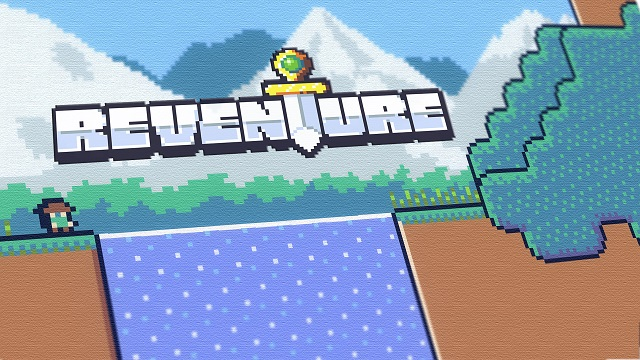
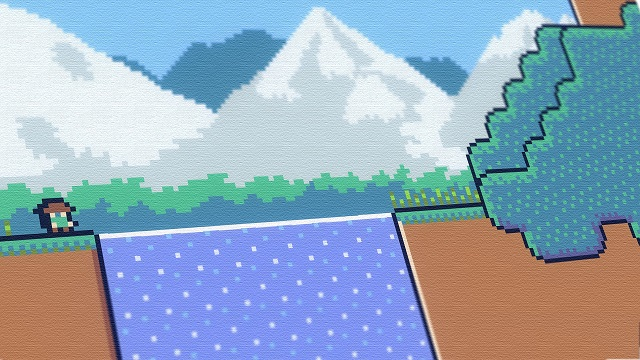
Changed product images and added vignette

Changed region(s): [[0.0625, 0.1222, 0.7188, 0.4583]]

diff --git a/index.html b/index.html
@@ -15,11 +15,11 @@ has_carousel: false
         {% for product_hash in products %}
             {% assign product = product_hash[1] %}
             <a href="/{{ product.code }}/" style="color: white;">
-                <div class="hero is-medium"
+                <div class="hero vignette-shadow-box is-medium"
                     style="background: url('/img/product/{{ product.code }}-hero.jpg') no-repeat center center; background-size: cover; background-position: center;">
                     <div class="hero-align-bottom">
-                        <h1 class="title is-3 has-text-white">
-                            {{ product.title }}
+                        <h1 class="title is-1 has-text-white">
+                            {{ product.name }}
                         </h1>
                         <h2 class="subtitle is-5 has-text-white">
                             {{ product.subtitle }}
@@ -38,7 +38,7 @@ has_carousel: false
         @media screen and (min-width: 769px) {
             .hero-align-bottom {
                 padding-bottom: 2rem;
-                padding-top: 16rem;
+                padding-top: 35rem;
             }
         }
 

diff --git a/_includes/product-card.html b/_includes/product-card.html
@@ -8,7 +8,7 @@
         <div class="card-content">
             <div class="media">
                 <div class="media-content">
-                    <p class="title is-4">{{ product.title }}</p>
+                    <p class="title is-4">{{ product.name }}</p>
                     <p class="subtitle is-6">{{ product.subtitle }}</p>
                     <p class="subtitle is-6">{{ product.description }}</p>
                 </div>

diff --git a/css/custom.css b/css/custom.css
@@ -117,3 +117,7 @@ blockquote:before {}
 .carousel {
     overflow: hidden;
 }
+
+.vignette-shadow-box {
+    box-shadow: inset 0 -30px 110px rgba(0, 0, 0, 0.527);
+  }
